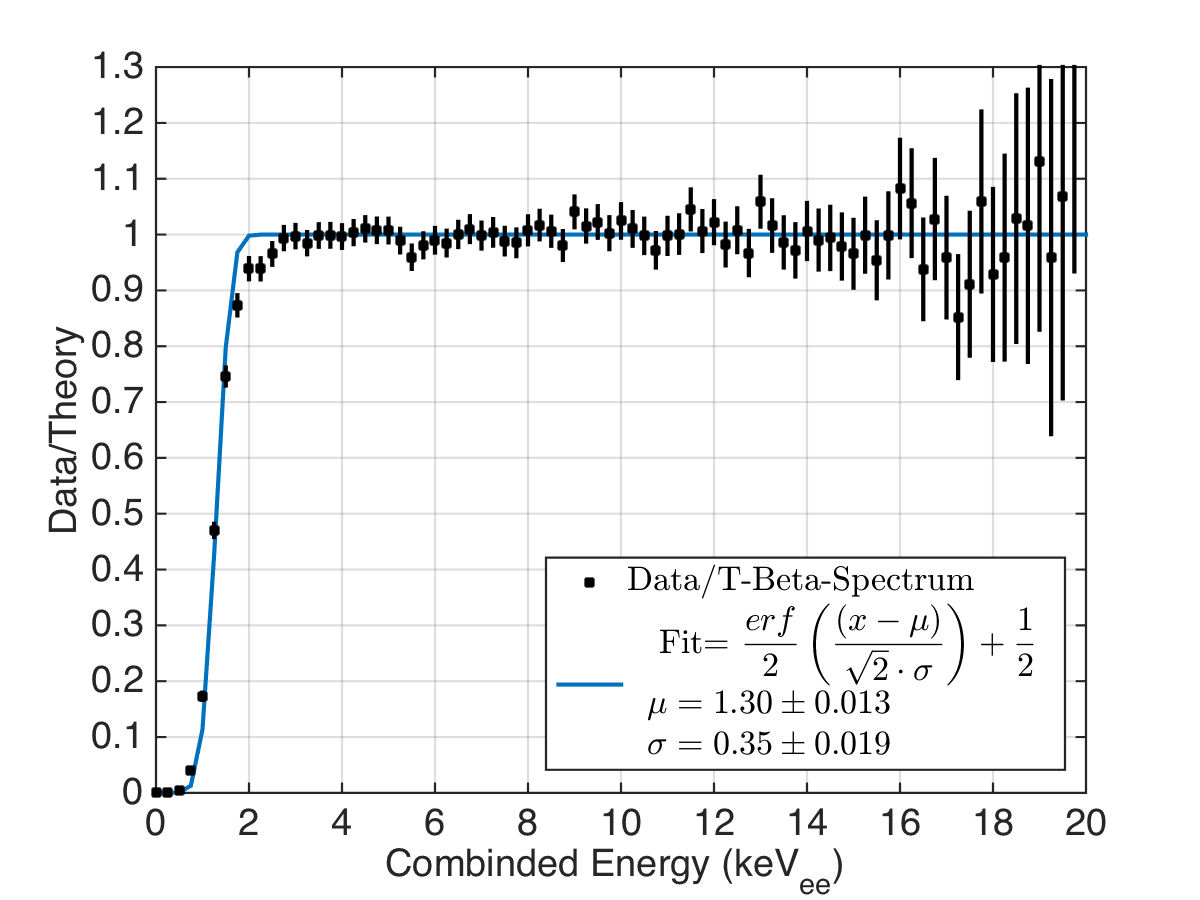
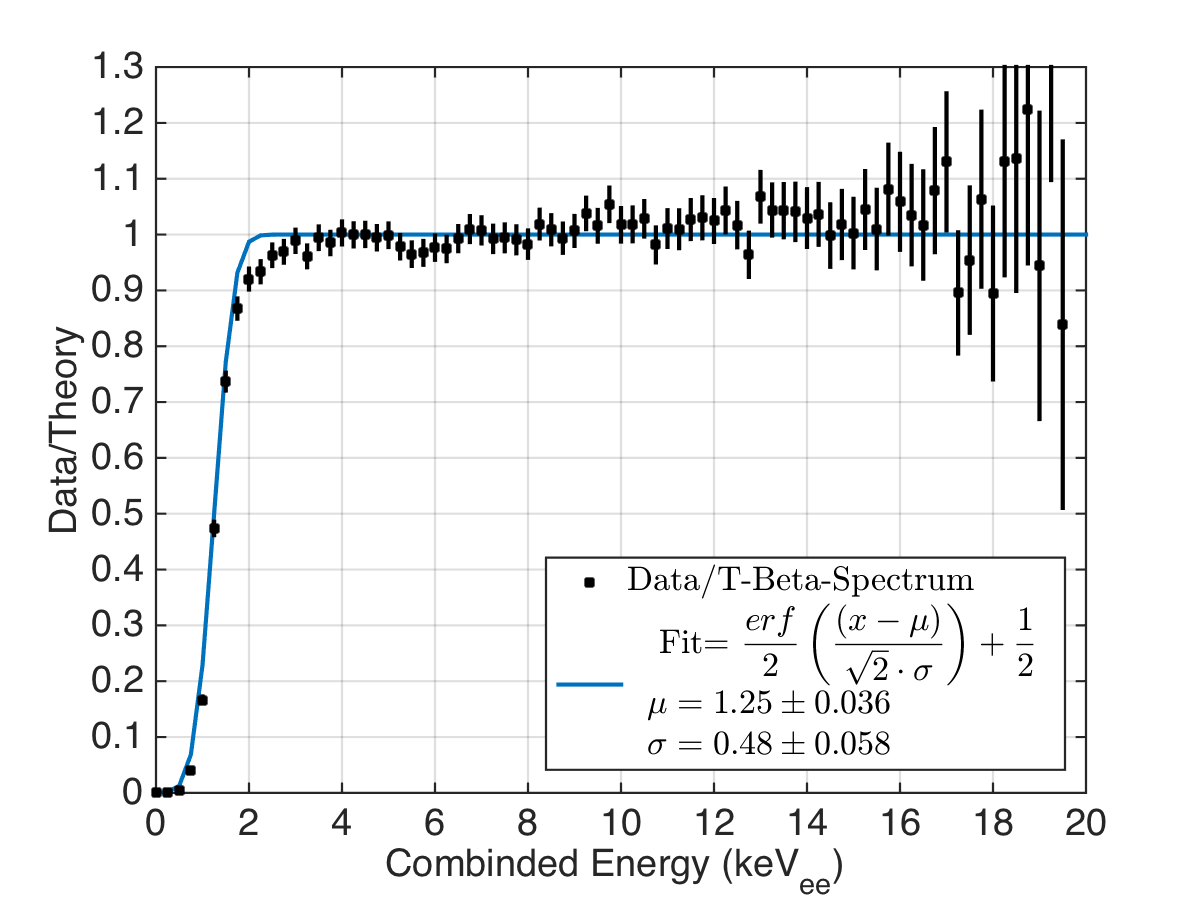
Paper comment updates, all figures updated with final g1,g2
the things I changed are in red, with the fixit{} command.

diff --git a/TritiumSVN/Results.tex b/TritiumSVN/Results.tex
@@ -1,9 +1,9 @@
 \section{Results}
 
-At the conclusion of Run 3, in December of 2013, a total of 10 Bq of tritium was injected into LUX and removed. A total 325,000 events were observed in the 251 kg active volume of LUX, of which 183,000 events were in the 145 kg fiducial volume at the nominal LUX electric field of 180~V/cm. Another 4,500 fiducial events were collected in a special run at a reduced field of 105~V/cm. We correct the S1 and S2 signals for spatial and temporal effects such as the light collection efficiency and the free electron lifetime with $ ^{83m}$Kr data as described in \cite{lux-reanalysis}. 
+At the conclusion of Run 3, in December of 2013, a total of 10 Bq of tritium was injected into LUX and removed. A total 300,000 events were observed in the 251 kg active volume of LUX, of which 170,000 events were in the 145 kg fiducial volume at the nominal LUX electric field of 180~V/cm. Another 4,500 fiducial events were collected in a special run at a reduced field of 105~V/cm. We correct the S1 and S2 signals for spatial and temporal effects such as the light collection efficiency and the free electron lifetime with $ ^{83m}$Kr data as described in \cite{lux-reanalysis}. 
 
 
-Data for analysis is selected as follows. \fixit{Attila: describe analysis cuts here, fiducial volume, pulse quantification (area vs spike count.}
+\fixit{Data for analysis is selected using cuts identical to the WIMP search analysis. Within an event window single scatters are selected by pairing an S1 with a single S2.  The S1 is measured using spike counting in the PMTs, requiring a minimum two fold coincidence from PMTs that are not in neighboring channels. The S2 signal is required to be greater than 150 phd (6 extracted electrons) to ensure accurate position reconstruction. The events are further required to be within a fiducial volume of 6 to 46 cm drift and less than 20 cm radius.}
 
 We interpret the data in terms of the combined energy model for electron recoils \cite{Platzman}, where the total energy of an event is directly proportional to the number of quanta produced (ionization electrons plus scintillation photons):
 
@@ -22,11 +22,13 @@ E_{total} = W \cdot \left(\frac{S1}{g_1} + \frac{S2}{g_2} \right),
 \end{equation}
 
 \noindent
-where S1 and S2 have units of photons detected (phd) and $g_1$ and $g_2$ have units of phd per quantum. $g_1$ is the average light collection efficiency times the average quantum efficiency of the PMT arrays, while $g_2$ is the product of the electron extraction efficiency at the liquid-gas surface and the average single electron size in phd. $g_1$ and $g_2$ are measured with line source data and single electron events in LUX Run 3 to be $0.120 \pm 0.002$ phd/photon and $10.63 \pm 0.015$ phd/electron\cite{lux-reanalysis, lux-prd}. For the December 2013 tritium calibration presented here, the gains g1 and g2 are constrained by optimizing the combined energy model to the true tritium spectral shape \cite{Tritium_Eq_Simpson} convolved with detector resolution. We find values of $g_1$ = \gone  phd/photon ~and  $g_2$ = \gtwo phd/electron.  The difference between these values with those quoted in Ref. \cite{lux-reanalysis, lux-prd} is taken as a systematic error for the results present in Ref. \cite{lux-reanalysis, lux-prd}.
+\fixit{where S1 and S2 have units of photons detected (phd) and $g_1$ and $g_2$ have units of phd per quantum. $g_1$ is the average light collection efficiency times the average quantum efficiency of the PMT arrays, while $g_2$ is the product of the electron extraction efficiency at the liquid-gas surface and the average single electron size in phd. $g_1$ and $g_2$ are measured with line source data and single electron events in LUX Run 3 to be $0.117 \pm 0.003$ phd/photon and $12.05 \pm 0.8$ phd/electron\cite{lux-reanalysis, lux-prd}. For the December 2013 tritium calibration presented here, the gains g1 and g2 are slightly shifted as measured from $\rm ^{83m}Kr$ calibration data, $g_1$ and $g_2$ are measured to be $0.114 \pm 0.003$ phd/photon and $12.0 \pm 0.8$.}
+
+%are constrained by optimizing the combined energy model to the true tritium spectral shape \cite{Tritium_Eq_Simpson} convolved with detector resolution. We find values of $g_1$ = \gone  phd/photon ~and  $g_2$ = \gtwo phd/electron.  The difference between these values with those quoted in Ref. \cite{lux-reanalysis, lux-prd} is taken as a systematic error for the results present in Ref. \cite{lux-reanalysis, lux-prd}.
 
 \begin{figure}[h!]
 \includegraphics[width=90mm]{fig/tritium_scatter.png}
-\caption{Scatter plot of $n_e$ vs $n_{\gamma}$ for \fixit{Attila, confirm that this number is correct:} 183,000 fiducial tritium events at 180~V/cm. Lines of constant energy are indicated assuming a $W$-value of 13.7~eV. The data is projected into $n_e$ and $n_{\gamma}$ histograms on each axis.}
+\caption{Scatter plot of $n_e$ vs $n_{\gamma}$ for 170,000 fiducial tritium events at 180~V/cm. Lines of constant energy are indicated assuming a $W$-value of 13.7~eV. The data is projected into $n_e$ and $n_{\gamma}$ histograms on each axis.}
 \label{fig:tritium-scatter}
 \end{figure}
 
@@ -34,7 +36,7 @@ where S1 and S2 have units of photons detected (phd) and $g_1$ and $g_2$ have un
 \begin{figure}[h!]
 \begin{center}
 \includegraphics[width=90mm]{fig/tritium-spectrum-linear.png}
-\caption{The tritium energy spectrum measured by LUX with the combined energy model (black) compared to two models: a pure tritium spectrum (dashed blue), and a tritium spectrum convolved with detector resolution  ($\frac{\sigma_E}{W} = \sqrt{\sigma^2(n_{\gamma})+ \sigma^2(n_e)}$.) The fractional residuals between the data and the smeared spectrum are shown below and are consistent with statistical fluctuations. \fixit{Can we quantify this?}}
+\caption{The tritium energy spectrum measured by LUX with the combined energy model (black) compared to two models: a pure tritium spectrum (dashed blue), and a tritium spectrum convolved with detector resolution  ($\frac{\sigma_E}{W} = \sqrt{\sigma^2(n_{\gamma})+ \sigma^2(n_e)}$.) \fixit{The fractional residuals between the data and the simulated spectrum correspond to a $\chi^2_{red}$=1.35}}
 \label{fig:tritium-spectrum}
 \end{center}
 \end{figure}
@@ -44,7 +46,7 @@ where S1 and S2 have units of photons detected (phd) and $g_1$ and $g_2$ have un
 A scatter plot of $n_e$ vs $n_{\gamma}$ for the tritium data at 180~V/cm is shown in Fig. \ref{fig:tritium-scatter}, along with the projected histograms on each axis. Contours of constant energy in 1~keV intervals are also plotted, derived from Eq. \ref{platzman_eq}. 
 
 
-The tritium energy spectrum, obtained by projecting the data along the lines of constant energy, is shown in Fig. \ref{fig:tritium-spectrum}. The data are compared to an ideal tritium spectrum \cite{Tritium_Eq_Simpson}, with no detector effects, and a tritium spectrum with an energy smearing factor of $ \frac{\sigma_E}{W} = \sqrt{\sigma(n_{\gamma})^2 + \sigma(n_e)^2}$, where $ \sigma(n_{\gamma})$ and $ \sigma(n_e)$ represent the detector resolution for photon and electron counting. In the fit the models are normalized to the data. The ratio of the data to the smeared theoretical spectrum is shown in Fig. \ref{fig:ER-threshold}, along with an empirical fit to an error function. The effective 50\% energy threshold for ER events is found to be 1.30 $\pm$ 0.013~keV. The excellent agreement between data and theory from 2~keV to the endpoint of the tritium spectrum supports the combined energy model in Eq.~\ref{platzman_eq}.
+The tritium energy spectrum, obtained by projecting the data along the lines of constant energy, is shown in Fig. \ref{fig:tritium-spectrum}. The data are compared to an ideal tritium spectrum \cite{Tritium_Eq_Simpson}, with no detector effects, and a tritium spectrum with an energy smearing factor of $ \frac{\sigma_E}{W} = \sqrt{\sigma(n_{\gamma})^2 + \sigma(n_e)^2}$, where $ \sigma(n_{\gamma})$ and $ \sigma(n_e)$ represent the detector resolution for photon and electron counting. In the fit the models are normalized to the data. The ratio of the data to the smeared theoretical spectrum is shown in Fig. \ref{fig:ER-threshold}, along with an empirical fit to an error function. The effective 50\% energy threshold for ER events is found to be 1.30 $\pm$ 0.013~keV. The excellent agreement between data and theory from 3~keV to the endpoint of the tritium spectrum supports the combined energy model in Eq.~\ref{platzman_eq}.
 
 \begin{figure}[h!]
 \includegraphics[width=90mm]{fig/E_Thres_Fit.png}
@@ -56,20 +58,20 @@ The tritium energy spectrum, obtained by projecting the data along the lines of 
 %Individual events on the plot are smeared by detector resolution and electron-ion pair recombination fluctuations. Detector resolution is comprised of statistical fluctuations in counting photons and electrons in the S1 and S2 channel. The finite resolution in S1 and S2 smear events along the vertical and horizontal axis, respectively. Recombination fluctuations ($ \sigma(R)$) smear events along the contours of constant energy, and thus cancel out in the combined energy model of Eq.\ref{platzman_eq}. 
 
 
-The mean light and charge yields of ER events in LUX are obtained by dividing the mean light and charge signals by the combined energy in each energy bin. The result is shown for 180~V/cm and 105~V/cm in Fig. \ref{fig:ER-LY-QY} along with NEST v0.98 model predictions at each field \cite{NEST_2013}. For these plots a small correction has been applied to the data to account for smearing of tritium events across energy bins due to the energy resolution and the spectral shape \cite{Dobi_Thesis}\footnote{We have verified with an internal $^{83m}Kr$ calibration source that the light yield of LXe is unaffected by the presence of CH$_4$ at concentrations up to $\sim$1 part per million. For the CH$_3$T measurements reported here the concentration was ($<$ $10\times10^{-12}$ g/g). }.  NEST v0.98 describes the data approximately, but predicts too much light yield and too little charge yield above 6~keV. Note that NEST v0.98 lacks direct input measurements in this energy range and electric field, so a modest disagreement is not unexpected.  A more recent version of NEST (v1.0) has been tuned to reproduce the LUX tritium data shown here faithfully.
+The mean light and charge yields of ER events in LUX are obtained by dividing the mean light and charge signals by the combined energy in each energy bin. The result is shown for 180~V/cm and 105~V/cm in Fig. \ref{fig:ER-LY-QY} along with NEST v0.98 model predictions at each field \cite{NEST_2013}. For these plots a small correction has been applied to the data to account for smearing of tritium events across energy bins due to the energy resolution and the spectral shape \cite{Dobi_Thesis}\footnote{We have verified with an internal $\rm ^{83m}Kr$ calibration source that the light yield of LXe is unaffected by the presence of CH$_4$ at concentrations up to $\sim$1 part per million. For the CH$_3$T measurements reported here the concentration was ($<$ $10\times10^{-12}$ g/g). }.  NEST v0.98 describes the data approximately, but predicts too much light yield and too little charge yield above 6~keV. Note that NEST v0.98 lacks direct input measurements in this energy range and electric field, so a modest disagreement is not unexpected. A more recent version of NEST (v1.0) has been tuned to reproduce the LUX tritium data shown here faithfully.
 
 \begin{figure}[h!]
 \includegraphics[width=90mm]{fig/ER_LY.png}
 \includegraphics[width=90mm]{fig/ER_QY.png}
-\caption{The light yield (upper plot) and charge yield (lower plot) of ER events in LUX at 180~V/cm (black) and 105~V/cm (blue) compared to NEST v0.98 (2013) (solid lines)\cite{NEST_2013}. The bands indicate the systematic errors due to $g_1$ and $g_2$, which are fully anti-correlated between the charge yield and light yield across all energy bins. }
+\caption{The light yield (upper plot) and charge yield (lower plot) of tritium ER events in LUX at 180~V/cm (black) and 105~V/cm (blue) compared to NEST v0.98 (2013) \cite{NEST_2013}. The NEST curves are solid lines in red and magenta for 105 and 180 V/cm respectively, with triangle markers spaced every one keV. The bands indicate the systematic errors due to $g_1$ and $g_2$, which are fully anti-correlated between the charge yield and light yield across all energy bins. }
 \label{fig:ER-LY-QY}
 \end{figure}
 
-The light yield measurements are compared to similar measurements by other authors in Fig. \ref{fig:Re_LY}. To remove detector effects from this comparison, the light yield is normalized to that of the 32.1~keV electron capture decay of $ ^{83m}Kr$ at zero electric field. For LUX this light yield is measured to be $ 63.8 \pm 3$ photons/keV. Although the error bars on the comparison data are large, the findings are consistent with the expectation that the tritium light yields at 105 and 180~V/cm lie between those at zero field and 450~V/cm from \cite{Aprile_LY} and \cite{Baudis}. It is worth noting that Refs. \cite{Aprile_LY} and \cite{Baudis} use Compton scatters as the source of ER events, while in tritium data the ER source is a beta decay. At low energy beta decays and Compton scatters will leave similar track lengths and produce similar event characteristics. The comparison of Fig. \ref{fig:Re_LY} supports this expectation, albeit with the large experimental uncertainties.
+The light yield measurements are compared to similar measurements by other authors in Fig. \ref{fig:Re_LY}. To remove detector effects from this comparison, the light yield is normalized to that of the 32.1~keV electron capture decay of $\rm ^{83m} Kr$ at zero electric field. For LUX this light yield is measured to be $ 63.3 \pm 3$ photons/keV. Although the error bars on the comparison data are large, the findings are consistent with the expectation that the tritium light yields at 105 and 180~V/cm lie between those at zero field and 450~V/cm from \cite{Aprile_LY} and \cite{Baudis}. It is worth noting that Refs. \cite{Aprile_LY} and \cite{Baudis} use Compton scatters as the source of ER events, while in tritium data the ER source is a beta decay. At low energy beta decays and Compton scatters will leave similar track lengths and produce similar event characteristics. \fixit{We have also included the 5.2 keV x-ray from $\rm ^{127}Xe$ in the WS data (180 V/cm), which is in good agreement with the tritium result}. The comparison of Fig. \ref{fig:Re_LY} supports this expectation, albeit with the large experimental uncertainties.
 
 \begin{figure}[h!]
 \includegraphics[width=88mm]{fig/Re_LY_log.png}
-\caption{Light yield measurement from LUX tritium data compared with results from other authors. Left vertical scale: light yield relative to that of the 32.1~keV decay of $^{83m}Kr $ at zero field. Right vertical scale: absolute light yield measurements from LUX tritium data. Shaded blue curve is tritium at 105~V/cm, shaded black curve is tritium at 180~V/cm. Magenta squares represent zero field measurements from \cite{Aprile_LY}, cyan triangles and red circles represent zero field and 450~V/cm from \cite{Baudis}. All non-tritium data is from Compton scatters. }
+\caption{Light yield measurement from LUX tritium data compared with results from other authors. Left vertical scale: light yield relative to that of the 32.1~keV decay of $\rm ^{83m}Kr $ at zero field. Right vertical scale: absolute light yield measurements. Shaded blue curve is tritium at 105~V/cm, shaded black curve is tritium at 180~V/cm. \fixit{Green square is the 5.2 keV x-ray from $\rm ^{127}Xe$ at 180 V/cm}. Magenta squares represent zero field measurements from \cite{Aprile_LY}, cyan triangles and red circles represent zero field and 450~V/cm from \cite{Baudis}. All non-tritium data is from Compton scatters. }
 \label{fig:Re_LY}
 \end{figure}
 
@@ -102,7 +104,7 @@ is shown explicitly in Fig. \ref{fig:recombination}, measured with both the 180~
 \begin{figure}[h!]
 \includegraphics[width=90mm]{fig/CH3T_ER_Band.png}
 \includegraphics[width=85mm]{fig/CH3T_Leakage_Run03.png}
-\caption{Top: The electron recoil band of LUX illuminated by 180,000 tritium events at the nominal LUX electric field of 180~V/cm.  The recoil discriminant variable, log(S2/S1), is shown vs. S1 between 1 and 120 phd in S1 (with contours of constant energy $1-20 \, keV_{ee}$). Also indicated in black are the mean and the 10\% and 90\% contours of the ER population. The solid red line represents the mean NR band determined with DD neutron generator data. The dashed red indicates the 10\% and 90\% contours of the NR band. Bottom: Observed LUX recoil discrimination vs. S1, defined as the fraction of events below the NR mean. Y-axis labels: left -  leakage fraction ($f$); right - discrimination ($1-f$).}
+\caption{Top: The electron recoil band of LUX illuminated by 170,000 tritium events at the nominal LUX electric field of 180~V/cm.  The recoil discriminant variable, log(S2/S1), is shown vs. S1 between 1 and 120 phd in S1 (with contours of constant energy $1-20 \, keV_{ee}$). Also indicated in black are the mean and the 10\% and 90\% contours of the ER population. The solid red line represents the mean NR band determined with DD neutron generator data. The dashed red indicates the 10\% and 90\% contours of the NR band. Bottom: Observed LUX recoil discrimination vs. S1, defined as the fraction of events below the NR mean. Y-axis labels: left -  leakage fraction ($f$); right - discrimination ($1-f$).}
 \label{fig:ER_band}
 \end{figure}
 
@@ -114,12 +116,13 @@ The LUX ER band is shown as log$_{10}$(S2/S1) vs S1 in Fig. \ref{fig:ER_band}(to
 \break
 \begin{sidewaysfigure}[p!]
 \includegraphics[width=220mm]{fig/Gaussianity/GaussER_all.png}
-\caption{Electron recoil population from tritium events about the centroid of the mean in 3 phd bins over over the WIMP region of interest (2 - 50 phd). We fit each bin to a Gaussian, and subtract the centroid of the Gaussian. The x-axis is measured in units of the fitted Gaussian width. The red dashed line represents the mean of the NR band in each bin. We observe non Gaussian behavior below three sigma of the ER band and two sigma above.  }
+\caption{Electron recoil population from tritium events about the centroid of the mean in 3 phd bins over over the WIMP region of interest (1 - 49 phd). We fit each bin to a Gaussian, and subtract the centroid of the Gaussian. The x-axis is measured in units of the fitted Gaussian width. The red dashed line represents the mean of the NR band in each bin. We observe non Gaussian behavior below three sigma of the ER band and two sigma above.  }
 \label{fig:ER-Gauss}
 \end{sidewaysfigure}
 \twocolumngrid
 
-In Fig. \ref{fig:ER-Gauss} we histogram $ log_{10}(S2/S1)$ in bins of S1 with a bin-width of 3 phd. In each bin we show a Gaussian fit to the data after subtracting the centroid and dividing by the Gaussian width. We find that the Gaussian fits describe the data well out to about $2\sigma$ on the upper side and $3\sigma$ on the lower side, beyond which non-Gaussian tails are visible. Only four non-tritium events are expected to be present in these plots out of 180,000 events total, indicating that the small non-Gaussian tails are a genuine feature of ER events in LUX. \fixit{Discuss the calculation of the expected non-tritium background event rate.} \fixit{It is unclear whether the non-Gaussian tails originate as a detector effect or due to the fundamental physics of liquid xenon.} 
+In Fig. \ref{fig:ER-Gauss} we histogram $ log_{10}(S2/S1)$ in bins of S1 with a bin-width of 3 phd. In each bin we show a Gaussian fit to the data after subtracting the centroid and dividing by the Gaussian width. We find that the Gaussian fits describe the data well out to about $2\sigma$ on the upper side and $3\sigma$ on the lower side, beyond which non-Gaussian tails are visible.  \fixit{The tritium data sets used here contained 27.5 live hours of data. Within the time window of data acquisitions and in a range of 1-18 $\rm keV_{ee}$ less than 15 ER events from backgrounds are expected, these would not contribute significantly to non-gaussian tails. Nuclear recoils from alpha decays on the walls with improperly reconstructed position would show up as extreme outliers well below four sigma of the ER band,  however the rate of these is 0.5 per day. Another background to consider is accidental coincidence tritium events where an S1 originating from below the cathode, thus not having an S2, is paired with a low energy S2 in the fiducial for which the S1 signal fell below threshold. The expected number of accidental coincidence events in the tritium data sets is 2.5. With only 2.5 accidental-coincidental tritium events and 0.5 alpha events from the wall expected to be present out of 170,000 events total the small non-Gaussian tails appear to be a genuine feature of ER events in LUX}. \fixit{However, it is uncertain whether the non-Gaussian tails originate as a detector effect or due to the fundamental physics of liquid xenon.} 
+ 
 
 In general the width of the ER band should be comprised of three components: the uncertainties on  $n_{\gamma}$ and $n_e$  due to detector resolution ($ \sigma(n_{\gamma})$ and $ \sigma(n_e)$), and true event-to-event variations in recombination ($ \sigma(R)$). $ \sigma(n_{\gamma})$ and $ \sigma(n_e)$ are responsible for fluctuations in the vertical  and horizontal directions in Fig. \ref{fig:tritium-scatter},  while 
 $ \sigma(R)$ causes fluctuations along the diagonal lines of constant energy. $ \sigma(n_{\gamma})$ and $ \sigma(n_e)$ can be measured as a function of energy and are shown in Fig. \ref{fig:recomb-flucs} for LUX tritium data at 180~V/cm\cite{Dobi_Thesis}. Also shown in Fig. \ref{fig:recomb-flucs} is the extracted value of $ \sigma(R)$ as a function of energy after controlling for $ \sigma(n_{\gamma})$ and $ \sigma(n_e)$ by a method described in Ref. \cite{Dobi_Thesis}. 
@@ -131,7 +134,6 @@ $ \sigma(R)$ causes fluctuations along the diagonal lines of constant energy. $ 
 \end{figure}
 
 We find that at 180~V/cm in LUX, $ \sigma(n_{\gamma})$ is the most important contributor to the ER band width over the entire tritium energy spectrum. Between 2 and 6~keV, where the WIMP search is most sensitive, $ \sigma(n_e)$ and $ \sigma(R)$ are of comparable magnitude and secondary importance. We note that an ideal detector would be limited by only $ \sigma(R)$.
-
 
 
 

diff --git a/TritiumSVN/Introduction.tex b/TritiumSVN/Introduction.tex
@@ -4,8 +4,8 @@ The Large Underground Xenon experiment (LUX) is a WIMP search located at the 485
 
 The LUX is monitored and calibrated primarily with electron sources that can be dissolved in the LXe. Two such sources,  \krsrc~\cite{Kastens:2009rt, Baudis} and tritium ($^{3}$H), have been deployed in LUX, both providing a large sample of spatially uniform events. In this article we report results from the calibration of LUX with tritium, a single-beta emitter with a Q value of 18.6~keV electron-equivalent\footnote{ER events and NR events generally have different energy scales in LXe. In this article we interpret all events using the ER energy scale.}~\cite{Tritium_Q}. 
 
-The tritium beta spectrum is well known both theoretically and experimentally. It has a broad peak at 2.5~keV and a mean energy of 5.6~keV~\cite{Tritium_Mean,Tritium_Eq}. \fixit{75\% ***fix this number to correspond to 1-8 keV***} of the decays occur between 1 and 8~keV, the energy range of interest for WIMP searches. These characteristics make it an ideal source for studying the ER response of LUX.  $^{83m}$Kr, which is a source of 9.4~keV and 32.1~keV internal conversion electrons, is well suited for routine monitoring and for correcting the spatial and temporal variations of the S1 and S2 signals, but is less useful for studies of the S2/S1 ER discrimination variable because both conversion electrons are above the dark matter energy range, and because the S2 signals from the two electrons generally overlap in the detector due to the short half-life of the intermediate state (154~ns). External gamma sources, such as \cssrc,  are also used on occasion by LUX, but they are unable to produce a useful rate of fiducial single-scatter calibration events in LUX in the WIMP energy range of interest due to self-shielding. We note that the most important background in LUX is due to Compton scatters, and such events are expected to have similar properties to beta decays in the tritium energy range. Neutron sources and a neutron generator are also employed by LUX to study the response to NR events~\cite{DD-paper}.
+The tritium beta spectrum is well known both theoretically and experimentally. It has a broad peak at 2.5~keV and a mean energy of 5.6~keV~\cite{Tritium_Mean,Tritium_Eq,Drexlin:2013lha}. 64.2\% of the decays occur between 1 and 8~keV, the energy range of interest for WIMP searches. These characteristics make it an ideal source for studying the ER response of LUX.  $\rm ^{83m}$Kr, which is a source of 9.4~keV and 32.1~keV internal conversion electrons, is well suited for routine monitoring and for correcting the spatial and temporal variations of the S1 and S2 signals, but is less useful for studies of the S2/S1 ER discrimination variable because both conversion electrons are above the dark matter energy range, and because the S2 signals from the two electrons generally overlap in the detector due to the short half-life of the intermediate state (154~ns). External gamma sources, such as \cssrc,  are also used on occasion by LUX, but they are unable to produce a useful rate of fiducial single-scatter calibration events in LUX in the WIMP energy range of interest due to self-shielding. We note that the most important background in LUX is due to Compton scatters, and such events are expected to have similar properties to beta decays in the tritium energy range. Neutron sources and a neutron generator are also employed by LUX to study the response to NR events~\cite{DD-paper}.
 
 We use tritiated methane (CH$_3$T) as the host molecule to deliver tritium activity into LUX. Compared to molecular tritium (T$_2$), CH$_3$T has several advantages. It does not adsorb onto surfaces like the T$_2$ molecule, and it does not interfere with charge transport in LXe. Also, because of its 12.3 year half-life, tritium must be removed from the detector by purification, and methane is amenable to chemical removal with standard noble gas purifiers~\cite{Dobi_CH4}. Note, however, that diffusion of tritium activity into plastic detector components during the calibration is an important concern, since that activity may later re-contaminate the LXe during the WIMP search runs.  In this respect, CH$_3$T is preferable over T$_2$ due to its larger molecular size and lower diffusion constant and solubility~\cite{miyake:1983}. We investigated the CH$_3$T contamination risk empirically with a series of bench-top tests prior to the first injection into LUX. These tests, which are described in Appendix \ref{sec:appendix1}, demonstrated that the injection and removal could be done without undue risk to the experiment. 
 
-An initial tritium dataset of $\sim$7,000 fiducial events was obtained by LUX in August of 2013, and the results were reported in Ref~\cite{lux-prl}. Subsequently, in December 2013, we injected additional activity with a higher rate and obtained a fiducial tritium dataset of over 180,000 events. This dataset is used to characterize the LUX ER band in Ref.~\cite{lux-reanalysis}. Except where otherwise noted, in this article we report results from the larger December 2013 dataset.
+An initial tritium dataset of $\sim$7,000 fiducial events was obtained by LUX in August of 2013, and the results were reported in Ref~\cite{lux-prl}. Subsequently, in December 2013, we injected additional activity with a higher rate and obtained a fiducial tritium dataset of 170,000 events. This dataset is used to characterize the LUX ER band in Ref.~\cite{lux-reanalysis}. Except where otherwise noted, in this article we report results from the larger December 2013 dataset.
